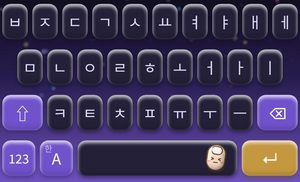
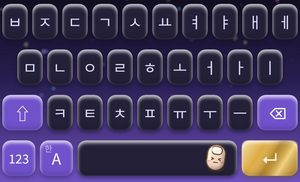
2026.11.12-12 블랙 퍼플 금속 금색 엔터
Claude-Session: https://claude.ai/code/session_01GvSCgEXELCVfxACkb9NKF6

Changed region(s): [[0.78, 0.7692, 1.0, 0.989]]

diff --git a/Keyboard/KeyboardView.swift b/Keyboard/KeyboardView.swift
@@ -16,6 +16,8 @@ final class KeyCap: UIView {
     private let ring = CAShapeLayer()
     /// 가죽 박음질 점선
     private let stitchLayer = CAShapeLayer()
+    /// 금속 엔터 빛 띠
+    private let metalLayer = CAGradientLayer()
     /// 투명 젤리 물방울 반사광
     private let drop = UIView()
     /// 계절 스티커 (키 모서리에 살짝 걸침, 누르는 영역과 무관)
@@ -54,6 +56,14 @@ final class KeyCap: UIView {
         stitchLayer.lineWidth = 1.1
         stitchLayer.lineDashPattern = [3.5, 2.5]
         face.layer.insertSublayer(stitchLayer, above: ring)
+        metalLayer.startPoint = CGPoint(x: 0, y: 0)
+        metalLayer.endPoint = CGPoint(x: 1, y: 1)
+        metalLayer.colors = [UIColor(red: 1, green: 0.96, blue: 0.82, alpha: 0.67).cgColor, UIColor(white: 1, alpha: 0).cgColor,
+                             UIColor(red: 0.35, green: 0.2, blue: 0, alpha: 0.31).cgColor, UIColor(red: 1, green: 0.93, blue: 0.67, alpha: 0.59).cgColor,
+                             UIColor(red: 0.31, green: 0.16, blue: 0, alpha: 0.27).cgColor]
+        metalLayer.locations = [0, 0.32, 0.52, 0.72, 1]
+        metalLayer.isHidden = true
+        face.layer.insertSublayer(metalLayer, above: stitchLayer)
         drop.isUserInteractionEnabled = false
         drop.backgroundColor = UIColor(white: 1, alpha: 0.75)
         drop.isHidden = true
@@ -153,6 +163,8 @@ final class KeyCap: UIView {
         grad.cornerRadius = cr
         ring.frame = face.bounds
         stitchLayer.frame = face.bounds
+        metalLayer.frame = face.bounds
+        metalLayer.cornerRadius = face.layer.cornerRadius
         stitchLayer.path = UIBezierPath(roundedRect: face.bounds.insetBy(dx: 3.5, dy: 3.5), cornerRadius: 6).cgPath
         ring.path = theme.cap == "round" ? UIBezierPath(roundedRect: face.bounds.insetBy(dx: 2.5, dy: 2.5), cornerRadius: max(cr - 2.5, 0)).cgPath : nil
         CATransaction.commit()
@@ -223,6 +235,7 @@ final class KeyCap: UIView {
         body.isHidden = true
         stitchLayer.isHidden = t.stitch == nil || isSpecial || isAccent
         stitchLayer.strokeColor = t.stitch?.cgColor
+        metalLayer.isHidden = !(t.metal && isAccent)
         if t.jelly {
             // 3D 키캡: 아랫단은 윗면보다 진하게, 윗면은 위가 밝은 그라데이션, 바닥에 은은한 그림자
             let top = (face.backgroundColor ?? t.key).resolvedColor(with: traitCollection)

diff --git a/Shared/KBTheme.swift b/Shared/KBTheme.swift
@@ -29,6 +29,7 @@ struct KBTheme {
     var jelly: Bool = true            // 3D 키캡 (아래 cap 모양으로 그림)
     var cap: String = "jelly"         // 키캡 모양: jelly 젤리 · round 동글 타자기 · clear 투명 젤리 · clay 클레이 · sa 레트로 기계식
     var stitch: UIColor? = nil        // 가죽 박음질 색 (글자 키 안쪽 점선)
+    var metal: Bool = false           // 엔터 키를 금속처럼 반짝이게
     var group: String = "color"       // color: 컬러 · retro: 레트로 (둘 다 키캡 모양 고르기) · winter: 겨울 (기계식 고정)
 
     var menuName: String { short ?? name }
@@ -46,7 +47,7 @@ struct KBTheme {
         bg: c(40, 30, 80), key: c(36, 32, 56), special: c(112, 82, 204),
         pressKey: c(56, 50, 84), pressSpecial: c(96, 68, 184),
         text: c(226, 218, 255), specialText: .white,
-        accent: c(196, 152, 64), depth: 4, radius: 10, bgImage: "bg_kit")
+        accent: c(222, 172, 66), depth: 4, radius: 10, bgImage: "bg_kit", metal: true)
 
     static let all: [KBTheme] = [
         standard,

diff --git a/App/FingerErrorApp.swift b/App/FingerErrorApp.swift
@@ -96,7 +96,7 @@ struct ContentView: View {
                 }
             }
             .safeAreaInset(edge: .bottom) {
-                Text("버전 2026.11.12-11 (버건디 스페셜) · 100개마다 리포트 · 한/A 영어 · 테마별 팻핑이 · 기념일").font(.caption2).foregroundStyle(.secondary).padding(4)
+                Text("버전 2026.11.12-12 (금 엔터) · 100개마다 리포트 · 한/A 영어 · 테마별 팻핑이 · 기념일").font(.caption2).foregroundStyle(.secondary).padding(4)
             }
             .navigationTitle("핑거에러")
             // 3D 젤리: 크림 배경 + 복숭아 포인트
